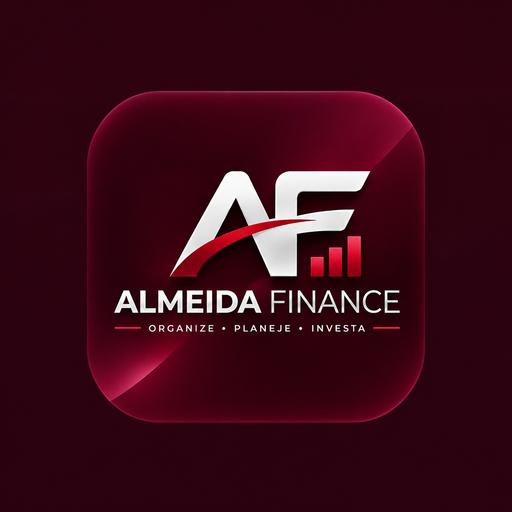
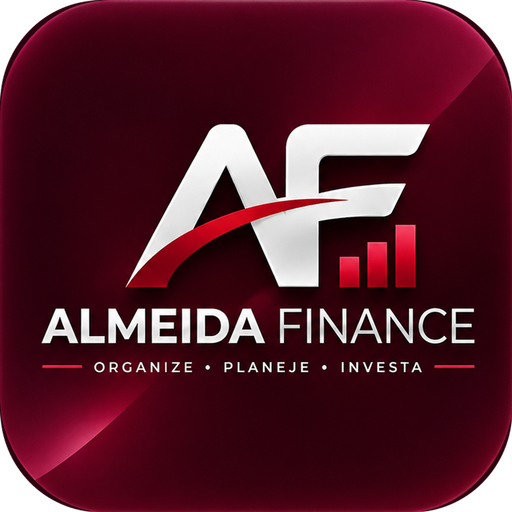
fix(icones): remove moldura dupla dos icones do PWA e versiona cache

diff --git a/index.html b/index.html
@@ -7,12 +7,12 @@
     <title>Almeida Finance</title>
 
     <!-- Favicon (32px para navegadores) -->
-    <link rel="icon" type="image/png" sizes="32x32" href="/branding/favicon-32.png" />
-    <link rel="icon" type="image/png" href="/branding/icon-192.png" />
-    <link rel="shortcut icon" type="image/png" href="/branding/icon-192.png" />
+    <link rel="icon" type="image/png" sizes="32x32" href="/branding/favicon-32.png?v=2" />
+    <link rel="icon" type="image/png" href="/branding/icon-192.png?v=2" />
+    <link rel="shortcut icon" type="image/png" href="/branding/icon-192.png?v=2" />
 
     <!-- Apple PWA — apple-touch-icon sem fundo transparente (180px opaco vinho) -->
-    <link rel="apple-touch-icon" sizes="180x180" href="/branding/apple-touch-icon.png" />
+    <link rel="apple-touch-icon" sizes="180x180" href="/branding/apple-touch-icon.png?v=2" />
     <meta name="apple-mobile-web-app-capable" content="yes" />
     <meta name="apple-mobile-web-app-status-bar-style" content="black-translucent" />
     <meta name="apple-mobile-web-app-title" content="Almeida Finance" />
@@ -21,18 +21,18 @@
     <link rel="manifest" href="/manifest.webmanifest" />
     <meta name="theme-color" content="#3d0a18" />
     <meta name="msapplication-TileColor" content="#3d0a18" />
-    <meta name="msapplication-TileImage" content="/branding/icon-192.png" />
+    <meta name="msapplication-TileImage" content="/branding/icon-192.png?v=2" />
 
     <!-- SEO & Open Graph -->
     <meta name="description" content="Almeida Finance — Organize, Planeje e Invista com controle financeiro pessoal." />
     <meta property="og:type" content="website" />
     <meta property="og:title" content="Almeida Finance" />
     <meta property="og:description" content="Organize • Planeje • Invista — Controle financeiro pessoal." />
-    <meta property="og:image" content="/branding/icon-512.png" />
+    <meta property="og:image" content="/branding/icon-512.png?v=2" />
     <meta name="twitter:card" content="summary" />
     <meta name="twitter:title" content="Almeida Finance" />
     <meta name="twitter:description" content="Organize • Planeje • Invista" />
-    <meta name="twitter:image" content="/branding/icon-512.png" />
+    <meta name="twitter:image" content="/branding/icon-512.png?v=2" />
 
     <style>
       /* Fundo imediato antes do React carregar — evita flash branco */
